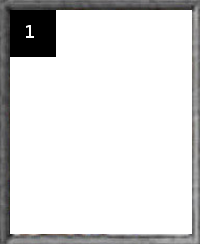
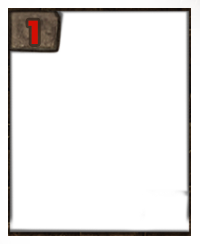
choice character with graphics

Changed region(s): [[0.0, 0.0, 1.0, 1.0]]

diff --git a/src/states/ChoiceCharacterState.js b/src/states/ChoiceCharacterState.js
@@ -3,22 +3,26 @@ class ChoiceCharacterState extends Phaser.State {
 
     preload() {
         this.game.load.spritesheet('button_back', 'assets/menu/back_image.png', 50, 50);
-        this.game.load.image('background','assets/menu/starfield.jpg');
-        this.game.load.image('characters','assets/menu/mk2.jpg');
+        this.game.load.image('background','assets/menu/backgroundchoice.jpg');
+
         this.game.load.image('select1','assets/menu/select1.png');
         this.game.load.image('select2','assets/menu/select2.png');
+        this.game.load.image('ready','assets/menu/ready.png');
     }
 
     create() {
+
+        this.posx = 98;
+        this.posy = 323;
         this.game.stage.backgroundColor = '#182d3b';
         this.background = this.game.add.tileSprite(0, 0, 800, 600, 'background');
         this.button_back = this.game.add.button(10, 10, 'button_back', this.backAction, this, 0, 0, 0);
         this.style = { font: "30px Arial", fill: "#ff0044", align: "center" };
 
         //definition select
-        this.characters = this.game.add.tileSprite(this.game.world.centerX-300, this.game.world.centerY-122, 600, 244, 'characters');
-        this.select1 = this.game.add.tileSprite(this.game.world.centerX-300, this.game.world.centerY-122, 200, 244, 'select1');
-        this.select2 = this.game.add.tileSprite(this.game.world.centerX+100, this.game.world.centerY-122, 200, 244, 'select2');
+        //this.characters = this.game.add.tileSprite(this.game.world.centerX-300, this.game.world.centerY-122, 600, 244, 'characters');
+        this.select1 = this.game.add.tileSprite(this.posx, this.posy, 200, 244, 'select1');
+        this.select2 = this.game.add.tileSprite(this.posx+400, this.posy, 200, 244, 'select2');
         this.choice1 = false;
         this.choice2 = false;
         this.choiceCharacter1 = 1;
@@ -45,16 +49,14 @@ class ChoiceCharacterState extends Phaser.State {
     actionConfirm2(){
         if(!this.choice2) {
             this.choice2 = true;
-            if (this.select2.x <= this.game.world.centerX - 300) {
+            if (this.select2.x <= this.posx) {
                 this.choiceCharacter2 = 1;
-            } else if (this.select2.x <= this.game.world.centerX - 100) {
+            } else if (this.select2.x <= this.posx + 200) {
                 this.choiceCharacter2 = 2;
             } else {
                 this.choiceCharacter2 = 3;
             }
-            console.log("choise2", this.choiceCharacter2);
-            this.text2 = this.game.add.text(this.game.world.centerX+200, this.game.world.centerY+125, "Ready", this.style);
-
+            this.game.add.tileSprite(this.posx+500, this.posy - 85 , 100, 80, 'ready');
             this.passGame();
         }
     }
@@ -62,16 +64,14 @@ class ChoiceCharacterState extends Phaser.State {
     actionConfirm1(){
         if(!this.choice1){
             this.choice1 = true;
-            if(this.select1.x<=this.game.world.centerX-300){
+            if(this.select1.x<=this.posx){
                 this.choiceCharacter1 = 1;
-            }else if(this.select1.x<=this.game.world.centerX-100){
+            }else if(this.select1.x<=this.posx+200){
                 this.choiceCharacter1 = 2;
             }else{
                 this.choiceCharacter1 = 3;
             }
-            console.log("choise1",this.choiceCharacter1);
-            this.text1 = this.game.add.text(this.game.world.centerX-300, this.game.world.centerY+125, "Ready", this.style);
-
+            this.game.add.tileSprite(this.posx, this.posy - 85 , 100, 80, 'ready');
             this.passGame();
         }
 
@@ -79,7 +79,7 @@ class ChoiceCharacterState extends Phaser.State {
 
     moveLeftUser1(){
         if(!this.choice1)
-        if(this.select1.x > this.game.world.centerX-300 ){
+        if(this.select1.x > this.posx ){
             this.select1.x = this.select1.x - 200;
 
         }
@@ -87,21 +87,21 @@ class ChoiceCharacterState extends Phaser.State {
 
     moveRigthUser1(){
         if(!this.choice1)
-        if(this.select1.x < this.game.world.centerX+100 ){
+        if(this.select1.x < this.posx+400 ){
             this.select1.x = this.select1.x + 200;
         }
     }
 
     moveLeftUser2(){
         if(!this.choice2)
-        if(this.select2.x > this.game.world.centerX-300 ){
+        if(this.select2.x > this.posx ){
             this.select2.x = this.select2.x - 200;
         }
     }
 
     moveRigthUser2(){
         if(!this.choice2)
-        if(this.select2.x < this.game.world.centerX+100 ){
+        if(this.select2.x < this.posx+400 ){
             this.select2.x = this.select2.x + 200;
         }
     }

diff --git a/src/objects/entities/Board.js b/src/objects/entities/Board.js
@@ -109,18 +109,23 @@ class Board {
     }
 
     destroyResource(num) {
+        var result = false;
         var col = (num - 1) % 3;
         var row = (Math.floor((num - 1) / 3)) % 3;
         var resource = this.matrix[row][col];
         if (resource != 0) {
             this.matrix[row][col] = 0;
             var sprite = this.sprites[row][col];
+            if(sprite.on && sprite.resource!=4){
+               result = true;
+            }else{
+                result = false;
+            }
             sprite.destroy();
             this.sprites[row][col] = null;
-            this.logmatrix();
-            return true;
+            return result;
         } else {
-            return false;
+            return result;
         }
 
     }
@@ -162,7 +167,6 @@ class Board {
                             position_allow.push([i, j]);
                         }
                     }
-
                 }
             }
         }
@@ -177,7 +181,6 @@ class Board {
         }
         this.logmatrix();
     }
-
 
     shuffle(array) {
         for (var j, x, i = array.length; i; j = Math.floor(Math.random() * i), x = array[--i], array[i] = array[j], array[j] = x);

diff --git a/src/objects/entities/Player.js b/src/objects/entities/Player.js
@@ -90,7 +90,10 @@ class Player {
         var col = (cel - 1) % 3;
         var row = (Math.floor((cel - 1) / 3)) % 3;
         if (this.matrixInputs[col][row]) {
-            this.board.destroyResource(cel);
+            var misslife = this.board.destroyResource(cel);
+            if(misslife){
+                this.god.subtractLife(1);
+            }
             this.refreshCels();
         } else {
             if (this.resource != 0) {
